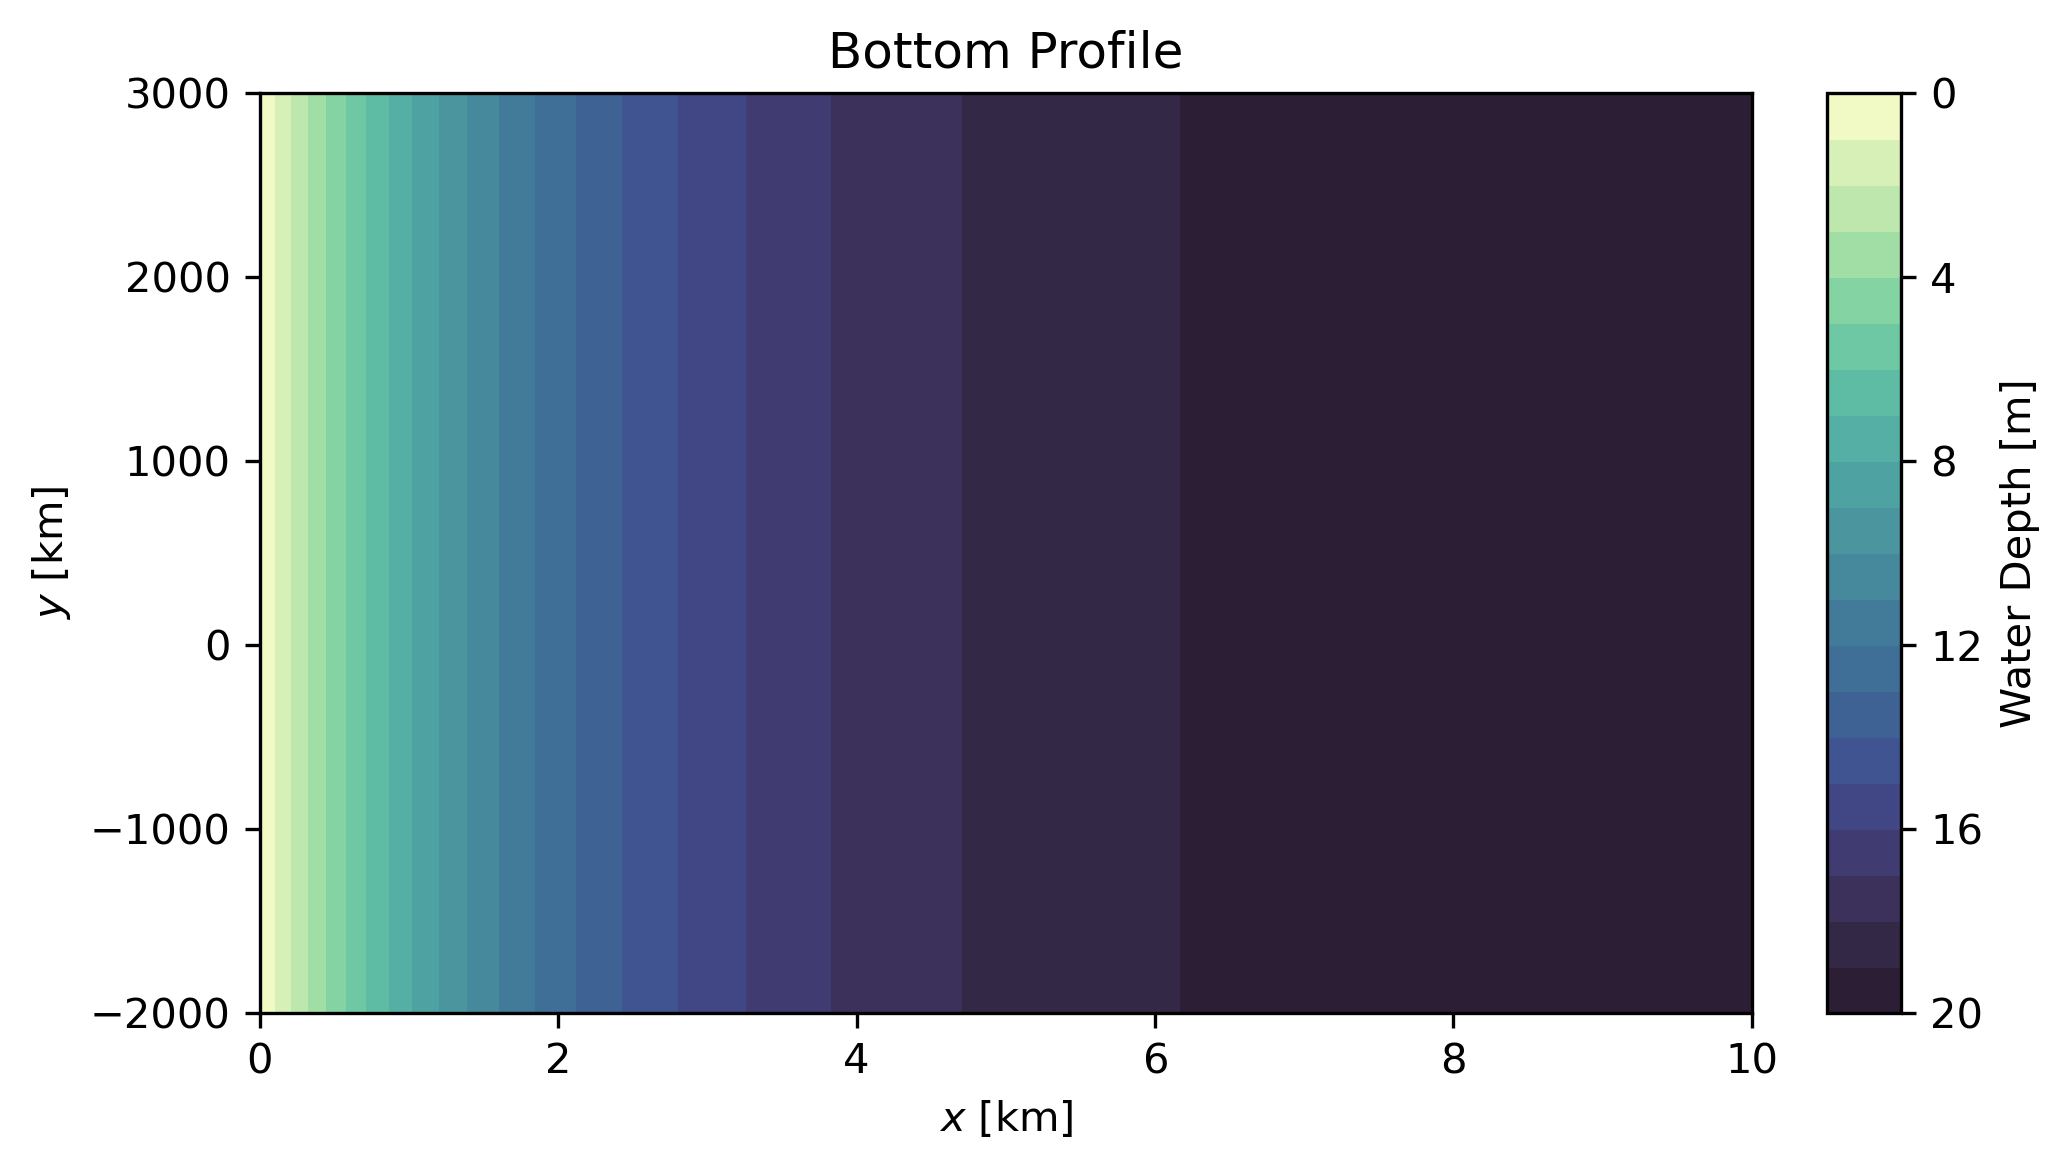
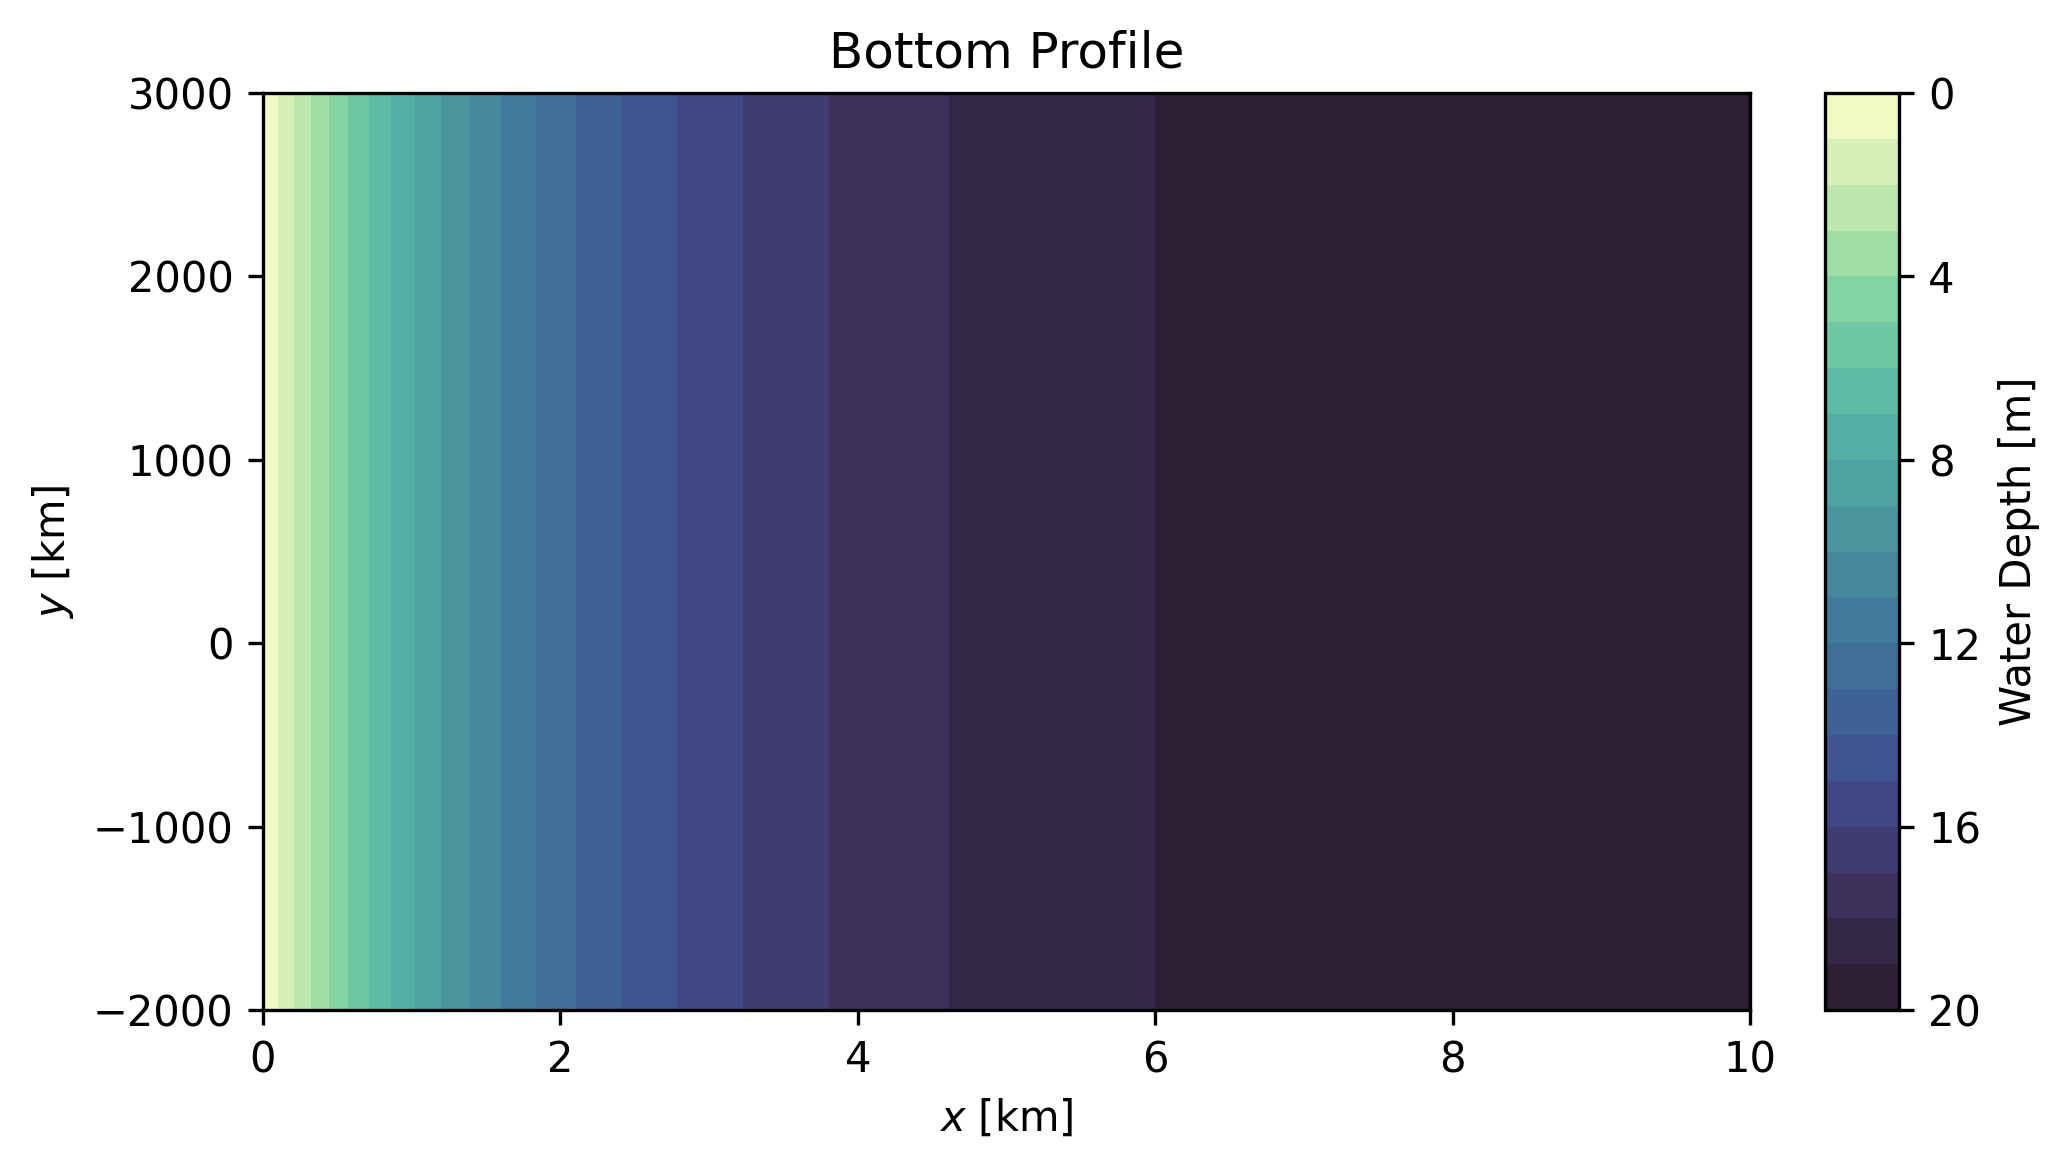
update thesis bathymetry

diff --git a/thesis/create_bathymetry.py b/thesis/create_bathymetry.py
@@ -21,7 +21,7 @@ os.makedirs(bathymetry_dir, exist_ok=True)
 
 
 ### Compute bathymetry
-x = np.concatenate(([0], np.logspace(0, 6, 51)))
+x = np.concatenate(([0], np.logspace(0, 6, 101)))
 y = np.linspace(-2e6, +3e6, 5)
 xx, yy = np.meshgrid(x, y)
 zz = exponential_shelf(xx, a=5e-4)
